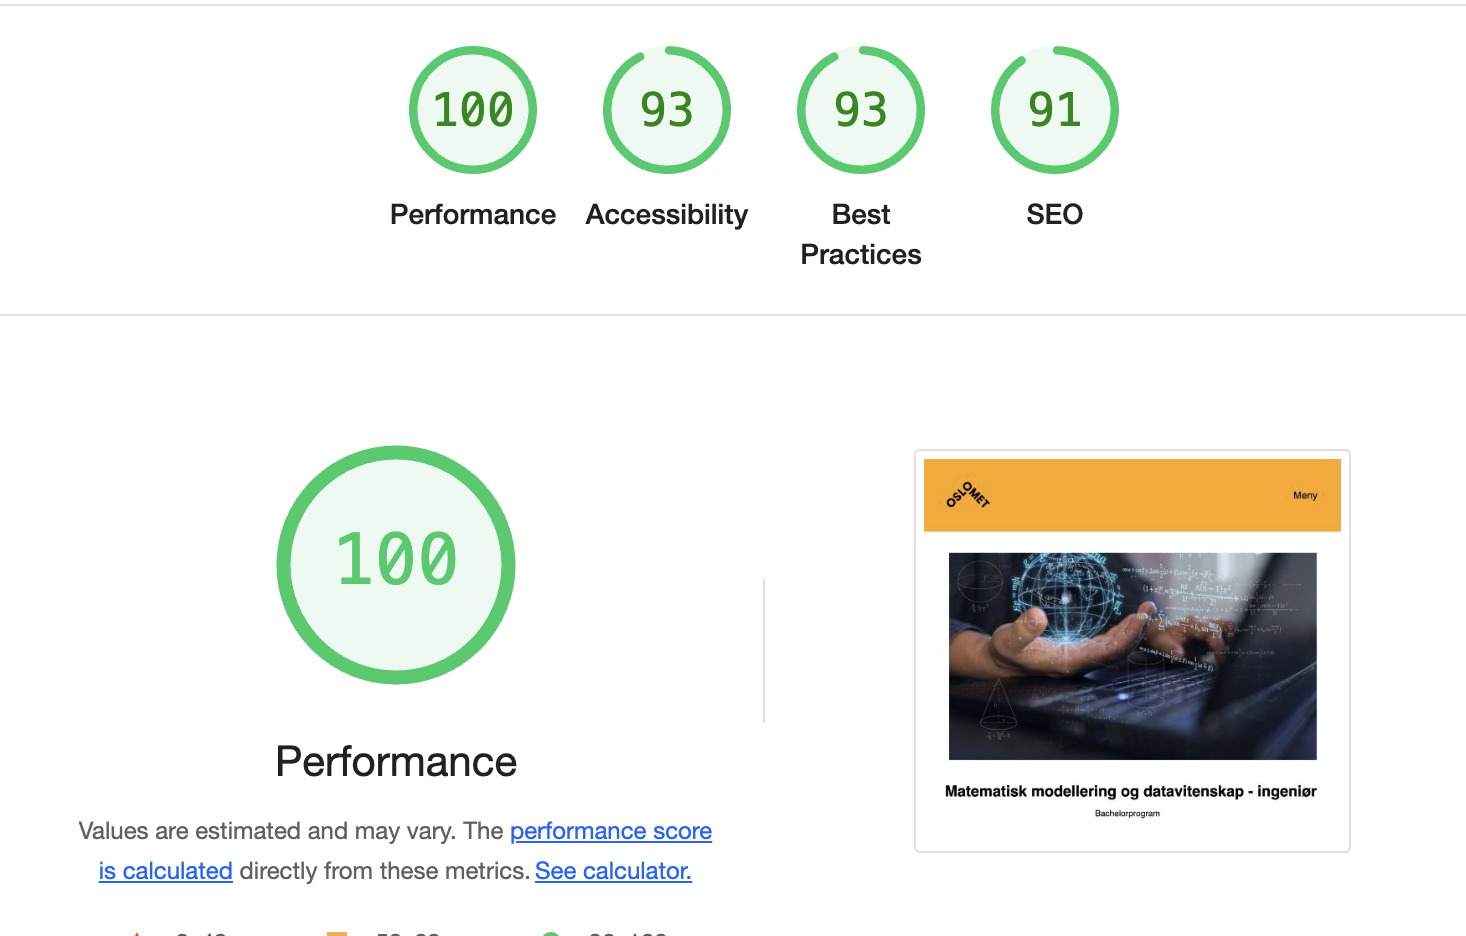
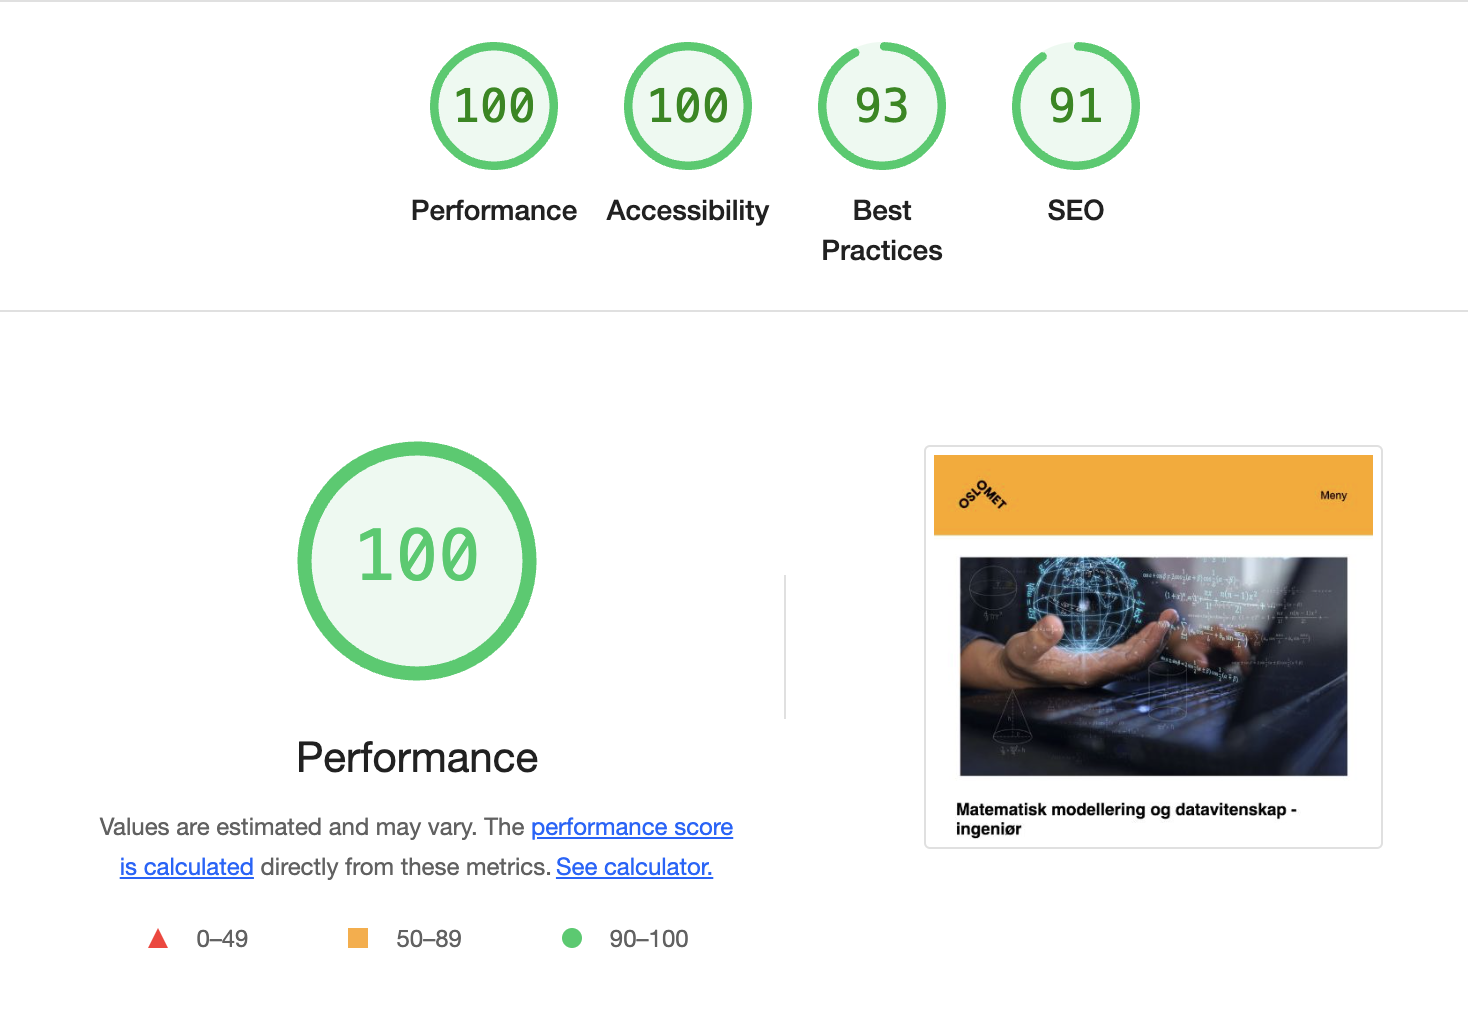
accesssibility

diff --git a/accessibility.html b/accessibility.html
@@ -47,11 +47,27 @@
             </p>
             <h3> Resultater fra automatisert testing </h3>
             <p>
-                Automatiserte testere er en fin indikator for å evaluere tilgjengelighet. Vår nettside fikk en score på 93 for tilgjengelighet, noe som er en strek indikasjon på at nettsiden vår følger gode praksiser for tilgjengelighet. Automatiserte testere gir imidlertid bare et delvis bilde, de kan identifisere vanlige problemer som manglende alt-tekst for bilder, feilaktig overskriftsstrukturer og fargekontrastbrudd. Vi brukte Lighthouse for å evaluere disse aspektene. Alt-tekst for bilder for å sikre at alle bilder har beskrivende og meningsfull alt-tekst. Fargekontrast for å kontrollere at teksten er lesbar for brukere med synshemninger ved å verifisere tilstrekkelige fargekontrastforhold. Tastaturnavigasjon for å sikre at brukere kan navigere nettsiden ved å bruke bare tastaturet, noe som er essensielt for de som ikke bruker mus. Disse testene bekreftet at nettsiden vår presterer godt på disse områdene, men det betyr ikke at nettsiden er fullt tilgjengelig.  
+                Automatiserte testere er en fin indikator for å evaluere tilgjengelighet. Vår nettside fikk en score på 100 for tilgjengelighet, 
+                noe som er en strek indikasjon på at nettsiden vår følger gode praksiser for tilgjengelighet. Automatiserte testere gir imidlertid bare et delvis bilde, 
+                de kan identifisere vanlige problemer som manglende alt-tekst for bilder, feilaktig overskriftsstrukturer og fargekontrastbrudd. Vi brukte Lighthouse for å evaluere disse aspektene.
+                 Alt-tekst for bilder for å sikre at alle bilder har beskrivende og meningsfull alt-tekst. Fargekontrast for å kontrollere at teksten er lesbar for brukere med synshemninger ved å verifisere tilstrekkelige fargekontrastforhold.
+                 Tastaturnavigasjon for å sikre at brukere kan navigere nettsiden ved å bruke bare tastaturet, noe som er essensielt for de som ikke bruker mus. Disse testene bekreftet at nettsiden vår presterer godt på disse områdene, men det betyr ikke at nettsiden er fullt tilgjengelig.  
             </p>
             <h3> Manuell gjennomgang og tilpassende kodevalg </h3>
             <p>
-                Automatiserte tester er et godt utgangs punkt i å teste nettsiden, men det er også lurt å gjennomføre en manuell gjennomgang for å fange opp problemer som Lighthouse kanskje ikke oppdager. En manuell gjennomgang betyr å teste nettsiden med faktiske brukere og gjennomgang i ulike nettlesere. Noen nøkkelvalg vi implementerte i koden for å forbedre tilgjengeligheten var å benytte riktige HTML-elementer som header, footer, main og nav som hjelper skjermleseren med å forstå strukturen på nettsiden. Vi passet også på at overskrifter brukes på en hierarkisk måte som h1, h2 og h3 for å hjelpe brukere med å navigere innholdet enkelt. Skjemaer er viktig for interaksjon, men de kan være en frustrasjon for brukere med funksjonsnedsettelser. Vi implementerte derfor klare etiketter for alle skjemaelementer og sørget for at de er knyttet til sine inndatafelter ved å bruke id-attributter. Vi har også sørget for at nettsiden er navigerbar med tastaturet. Designet til nettsiden inkluderer også et tilpasset fargeskjema som viser kontrastforhold mellom tekst og bakgrunnsfarger. Vi har også implementert en menyknapp øvet på nettsiden som gjør det enkelt å gå fra en side til neste side. Meny knappen er også tastatur vennlig fordi vi implementerte i css at når tastaturet eller musen er på en av valgene så vil det valget endre farge. For oss var det viktig at nettsiden er strukturert og vi har brukt grid layout for å hjelpe oss med dette. Vi fant også ut at når vi gjorde skjermen mindre så overlappet mye av innholdet seg vi valgte derfor å sette inn @media i css. Noe annet vi lå merke til når vi testet siden var at når vi hadde dropdown menyene 2 og 2 nedover på virket dette hvordan tabellen så ut. Vi valgte derfor å la tabellen stå alene på en rad med å se andre fortsatt er to og to nedover. Vi fikset dette ved å bruke grid-layout.  
+                Automatiserte tester er et godt utgangs punkt i å teste nettsiden, men det er også lurt å gjennomføre en manuell gjennomgang for å fange opp problemer som Lighthouse kanskje ikke oppdager.
+                 En manuell gjennomgang betyr å teste nettsiden med faktiske brukere og gjennomgang i ulike nettlesere. Noen nøkkelvalg vi implementerte i koden for å forbedre tilgjengeligheten var å benytte riktige HTML-elementer som header, footer, main og nav som hjelper skjermleseren med å forstå strukturen på nettsiden. Vi passet også på at overskrifter brukes på en hierarkisk måte som h1, h2 og h3 for å hjelpe brukere med å navigere innholdet enkelt. 
+                 Skjemaer er viktig for interaksjon, men de kan være en frustrasjon for brukere med funksjonsnedsettelser. 
+                 Vi implementerte derfor klare etiketter for alle skjemaelementer og sørget for at de er knyttet til sine inndatafelter ved å bruke id-attributter. 
+                 Vi har også sørget for at nettsiden er navigerbar med tastaturet. 
+                 Designet til nettsiden inkluderer også et tilpasset fargeskjema som viser kontrastforhold mellom tekst og bakgrunnsfarger. 
+                 Vi har også implementert en menyknapp øverst på nettsiden som gjør det enkelt å gå fra en side til neste side.
+                  Meny knappen er også tastatur vennlig fordi vi implementerte i css at når tastaturet eller musen er på en av valgene så vil det valget endre farge.
+                   For oss var det viktig at nettsiden er strukturert og vi har brukt grid layout for å hjelpe oss med dette. 
+                   Vi fant også ut at når vi gjorde skjermen mindre så overlappet mye av innholdet seg, vi valgte derfor å sette inn @media i css. 
+                   Noe annet vi lå merke til når vi testet siden var at når vi hadde dropdown menyene 2 og 2 nedover påvirket dette hvordan tabellen så ut.
+                 Vi valgte derfor å la tabellen stå alene på en rad mens de andre fortsatt er to og to nedover. 
+                 Vi fikset dette ved å bruke grid-layout.  
     
             </p> 
             <p>
